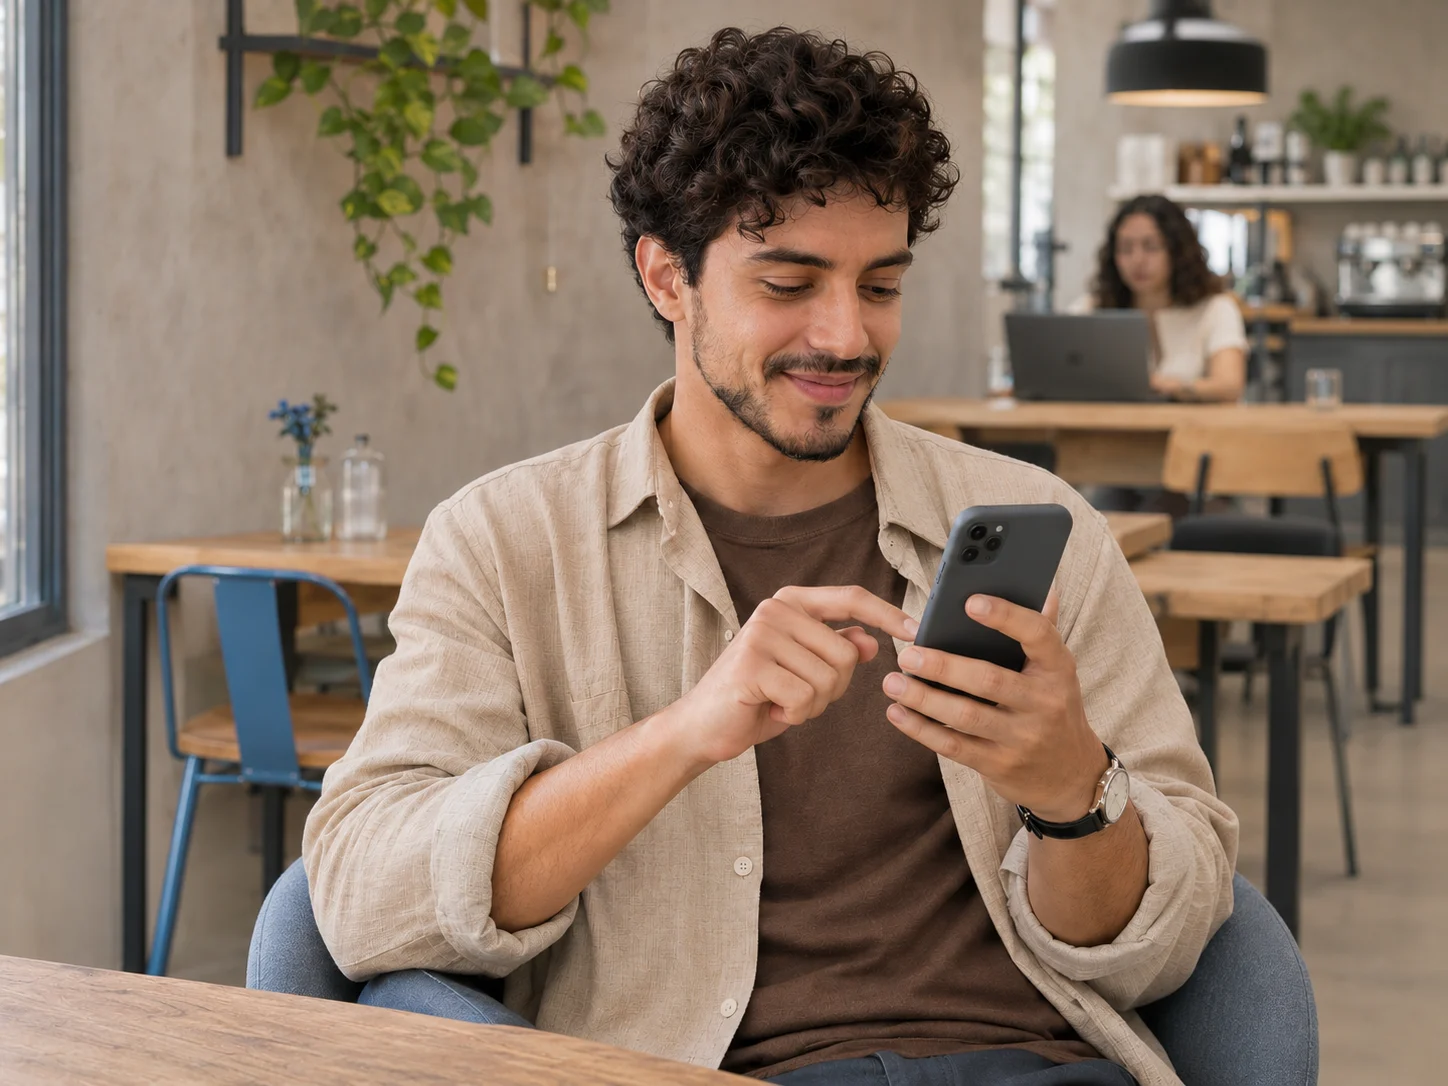
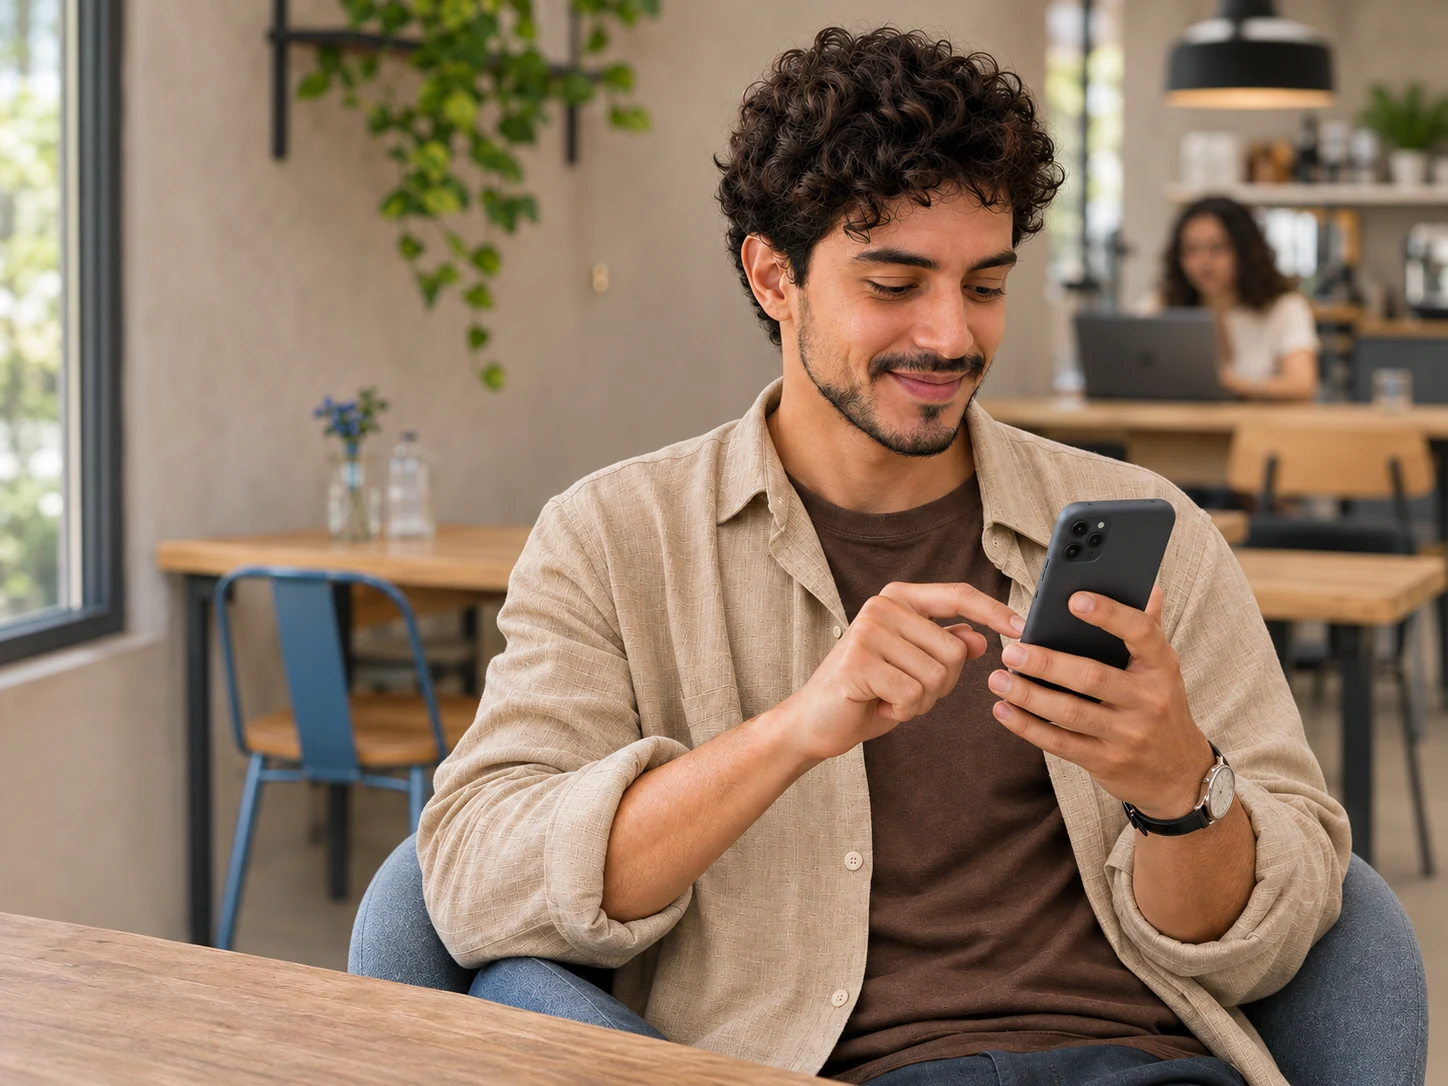
alterna as fotos da pagina inicial

diff --git a/frontend/app/components/HomeHeroPhoto.tsx b/frontend/app/components/HomeHeroPhoto.tsx
@@ -1,0 +1,70 @@
+"use client";
+
+import Image from "next/image";
+import { useEffect, useState } from "react";
+
+const photos = [
+  {
+    src: "/freelike-home.webp",
+    alt: "Homem usando o celular em um espaço de trabalho compartilhado",
+  },
+  {
+    src: "/freelike-home-designer.webp",
+    alt: "Designer criando a identidade visual de uma cafeteria no notebook",
+  },
+  {
+    src: "/freelike-home-cardapio.webp",
+    alt: "Pessoa usando um cardápio digital no balcão de uma lancheria",
+  },
+];
+
+const storageKey = "freelike-home-next-photo";
+let currentPhotoIndex: number | undefined;
+
+function selectPhoto() {
+  // A mesma foto fica na home até um novo carregamento da página.
+  if (currentPhotoIndex !== undefined) return currentPhotoIndex;
+
+  let index = 0;
+  try {
+    const savedIndex = Number(sessionStorage.getItem(storageKey));
+    if (
+      Number.isInteger(savedIndex) &&
+      savedIndex >= 0 &&
+      savedIndex < photos.length
+    ) {
+      index = savedIndex;
+    }
+    sessionStorage.setItem(storageKey, String((index + 1) % photos.length));
+  } catch {
+    // Sem acesso ao armazenamento, a home ainda mostra uma foto.
+  }
+  currentPhotoIndex = index;
+  return index;
+}
+
+export default function HomeHeroPhoto() {
+  const [photoIndex, setPhotoIndex] = useState<number | null>(null);
+
+  useEffect(() => {
+    const frame = requestAnimationFrame(() => setPhotoIndex(selectPhoto()));
+    return () => cancelAnimationFrame(frame);
+  }, []);
+
+  if (photoIndex === null) {
+    return <div className="home-photo-placeholder" aria-hidden="true" />;
+  }
+
+  const { src, alt } = photos[photoIndex];
+  return (
+    <Image
+      src={src}
+      alt={alt}
+      width={1448}
+      height={1086}
+      loading="eager"
+      fetchPriority="high"
+      unoptimized
+    />
+  );
+}

diff --git a/frontend/app/page.tsx b/frontend/app/page.tsx
@@ -1,6 +1,6 @@
-import Image from "next/image";
 import Link from "next/link";
 import type { Metadata } from "next";
+import HomeHeroPhoto from "./components/HomeHeroPhoto";
 import HomeServiceHighlight from "./components/service/HomeServiceHighlight";
 
 export const metadata: Metadata = {
@@ -49,15 +49,7 @@ export default function Home() {
         </div>
         <div className="col-lg-7">
           <div className="home-photo">
-            <Image
-              src="/freelike-home.webp"
-              width={1448}
-              height={1086}
-              sizes="(min-width: 1400px) 720px, (min-width: 992px) 55vw, 100vw"
-              alt="Homem usando o celular em um espaço de trabalho compartilhado"
-              loading="eager"
-              fetchPriority="high"
-            />
+            <HomeHeroPhoto />
             <HomeServiceHighlight />
           </div>
         </div>

diff --git a/frontend/app/globals.css b/frontend/app/globals.css
@@ -939,6 +939,11 @@ body {
   height: auto;
   border-radius: 1.25rem;
 }
+.home-photo-placeholder {
+  aspect-ratio: 4 / 3;
+  border-radius: 1.25rem;
+  background: var(--freelike-image-bg);
+}
 .home-service-highlight {
   display: flex;
   align-items: flex-start;
